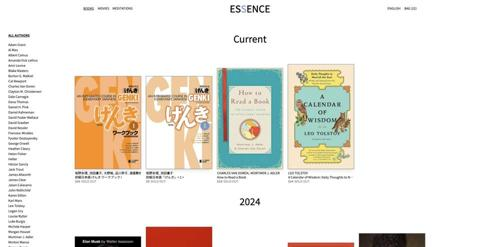
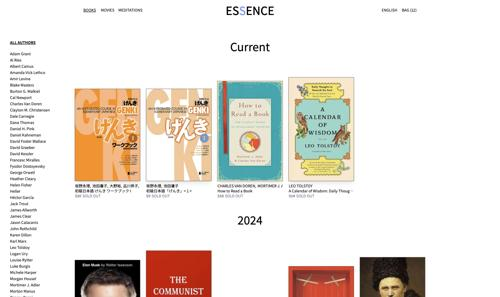
better aspect ratio on images

diff --git a/src/pages/index.tsx b/src/pages/index.tsx
@@ -243,6 +243,7 @@ export default function HomePage() {
                 src: '/assets/icons/industrial---gallery.png',
                 className: glassAntiqua.className,
                 showName: true,
+                // column: 1,
                 handleDoubleClick: () => {
                     openWindow('gallery')
                 },
@@ -291,7 +292,9 @@ export default function HomePage() {
     }
 
     // Desktop
-    const [currentNameFont, setCurrentNameFont] = useState(Math.floor(Math.random() * fontClassNames.length))
+    const [currentNameFont, setCurrentNameFont] = useState(
+        Math.floor(Math.random() * fontClassNames.length)
+    )
     const [nameHover, setNameHover] = useState(false)
     const [textHover, setTextHover] = useState<string | null>(null)
     const desktopRef = useRef<HTMLDivElement>(null)
@@ -634,13 +637,13 @@ export default function HomePage() {
                     <div className="text-center w-2/3">
                         <p className="text-white text-2xl mb-4">
                             {
-                                '"Every portrait that is painted with feeling is a portrait of the artist... It is rather the painter who, on the coloured canvas, reveals himself."'
+                                '"The City is an addictive machine from which there is no escape."'
                             }
                         </p>
                         <div className="text-right w-full">
                             <p className="text-white text-xl">
-                                {'―Oscar Wilde, '}
-                                <i>{'The Picture of Dorian Gray'}</i>
+                                {'―Rem Koolhaas'}
+                                {/* <i>{'The Picture of Dorian Gray'}</i> */}
                             </p>
                         </div>
                     </div>
@@ -802,10 +805,10 @@ export default function HomePage() {
                     }  text-white md:text-6xl text-4xl items-end flex flex-col rounded transition-all ${
                         showScreensaver ? 'invisible' : 'visible delay-500'
                     }`}
-                    >
+                >
                     {!showScreensaver && (
                         <div className="text-right flex flex-col">
-                            {animationFinished ? (
+                            {/* {animationFinished ? (
                                 <h1
                                     className={`md:text-7xl text-5xl text-white whitespace-nowrap drop-shadow-[0_1.2px_1.2px_rgba(0,0,0,0.8)] ${fontClassNames[currentNameFont]}`}
                                     onMouseEnter={() => setNameHover(true)}
@@ -818,7 +821,15 @@ export default function HomePage() {
                                     className={`md:text-7xl text-5xl text-white whitespace-nowrap duration-[1500ms] transition drop-shadow-[0_1.2px_1.2px_rgba(0,0,0,0.8)] ${fontClassNames[currentNameFont]}`}
                                     ref={nameRef}
                                 ></h1>
-                            )}
+                            )} */}
+
+                            <h1
+                                className={`md:text-7xl text-5xl text-white whitespace-nowrap drop-shadow-[0_1.2px_1.2px_rgba(0,0,0,0.8)] ${fontClassNames[currentNameFont]}`}
+                                onMouseEnter={() => setNameHover(true)}
+                                onMouseLeave={() => setNameHover(false)}
+                            >
+                                Eric Zhu
+                            </h1>
                             <p
                                 className="md:text-2xl text-lg text-white drop-shadow-[0_1.2px_1.2px_rgba(0,0,0,0.8)]"
                                 ref={copyrightRef}
@@ -826,15 +837,15 @@ export default function HomePage() {
                             />
                         </div>
                     )}
-                    <div
+                    {/* <div
                         className={`text-white flex flex-row items-center space-x-5 rounded transition-all drop-shadow-[0_1.2px_1.2px_rgba(0,0,0,0.8)]`}
                     >
-                        {/* <span className='md:text-4xl text-2xl'>"WEBSITE"</span> */}
+                        <span className='md:text-4xl text-2xl'>"WEBSITE"</span>
                         <span className='flex flex-col md:text-2xl text-lg'>
-                            <span>Sydney, AUS. circa 2022</span>
-                            {/* <span>C. 2022</span> */}
+                            <span>Sydney, AUS</span>
+                            <span>C. 2022</span>
                         </span>
-                    </div>
+                    </div> */}
                 </div>
 
                 <div

diff --git a/src/components/data/resume.tsx b/src/components/data/resume.tsx
@@ -88,7 +88,7 @@ export const RESUME_DATA = {
                 'Contributed to the design of a semantic segmentation algorithm for detecting anomalous contextual changes in streaming sensor data. I was also responsible for designing and implementing a website using Gatsby and Contentful CMS for the research showcase.',
             badges: [
                 'Scipy',
-                'FLOSS',
+                'Fast Semantic Segmentation',
                 'TypeScript',
                 'Gatsby',
                 'Contentful CMS',
@@ -152,14 +152,6 @@ export const RESUME_DATA = {
             },
         },
         {
-            title: 'Canvas Processing',
-            techStack: ['p5.js'],
-            description: 'Creative coding with p5.js',
-            link: {
-                href: '/?windows=processing&fs=processing',
-            },
-        },
-        {
             title: 'INDUSTRIAL GALLERY',
             techStack: ['Gaussian Splat', 'Radiance Fields', 'Python'],
             description:
@@ -179,5 +171,10 @@ export const RESUME_DATA = {
             techStack: ['PyTorch', 'GAN', 'Neural Network'],
             description: 'Image-to-image translation using ResNeXt-based GAN',
         },
+        {
+            title: "GAnki",
+            techStack: ['Tesseract', 'Python', 'Tesseract', 'OpenCV'],
+            description: 'Anki flashcards from げんき using OCR'
+        }
     ],
 } as const
